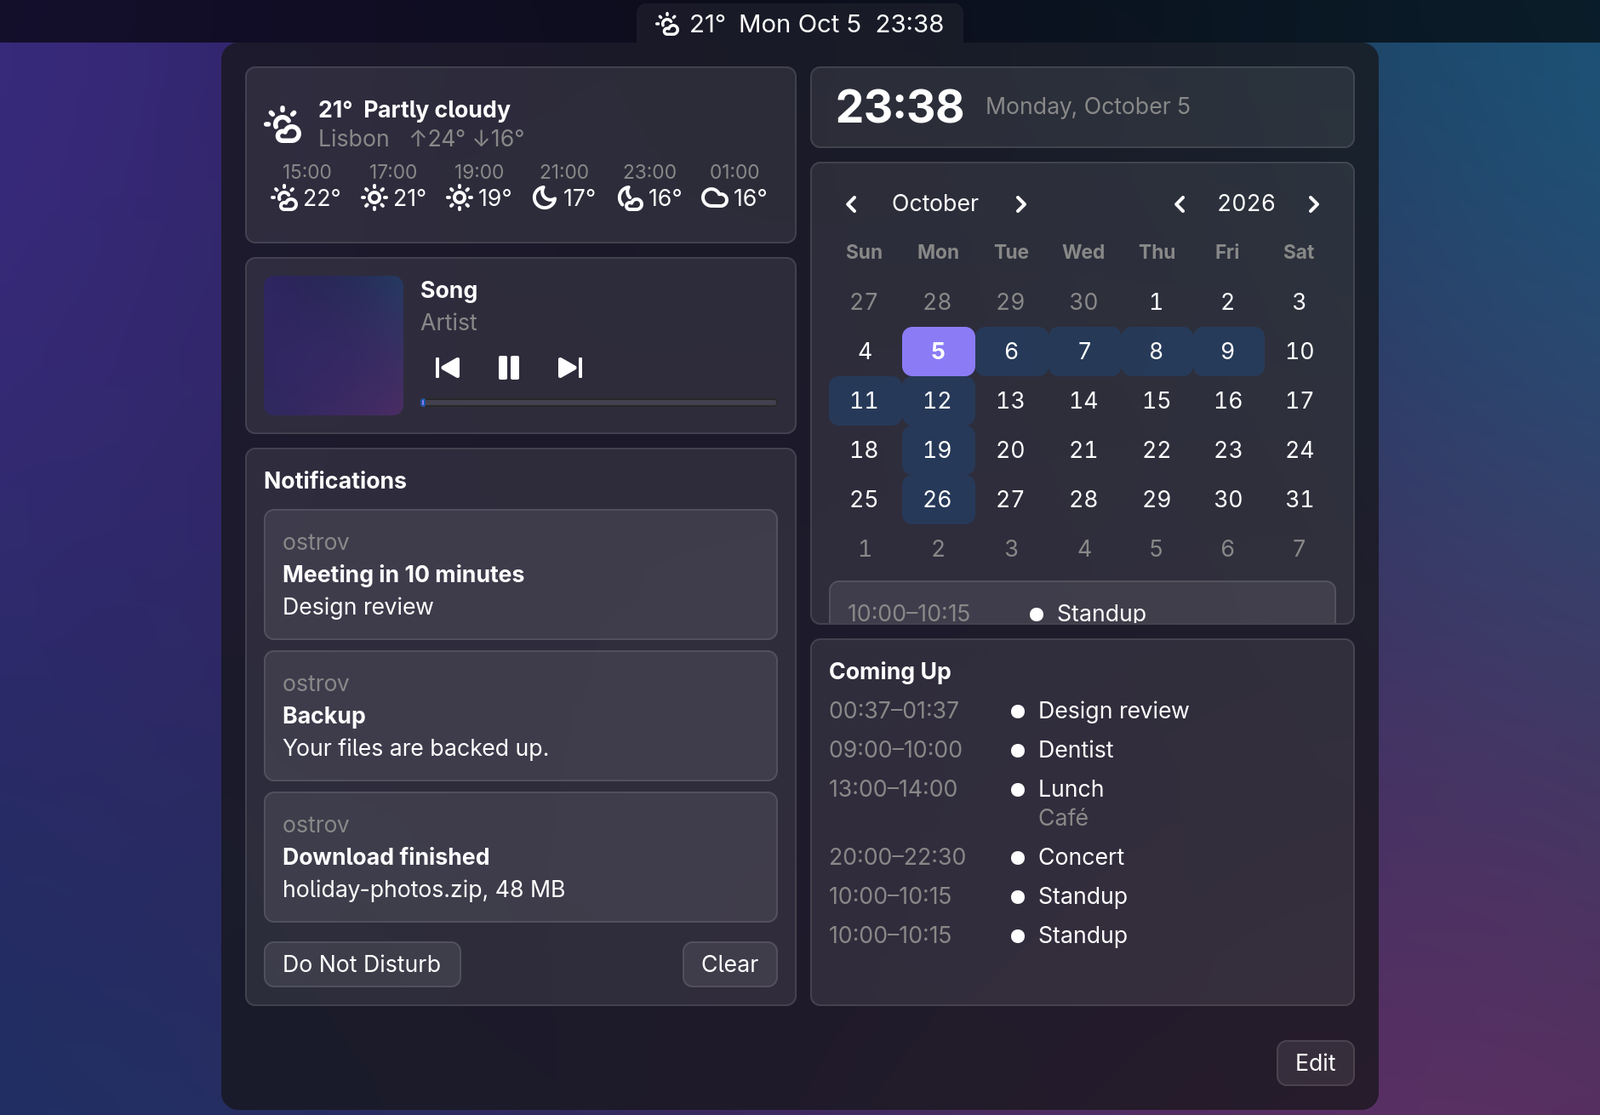
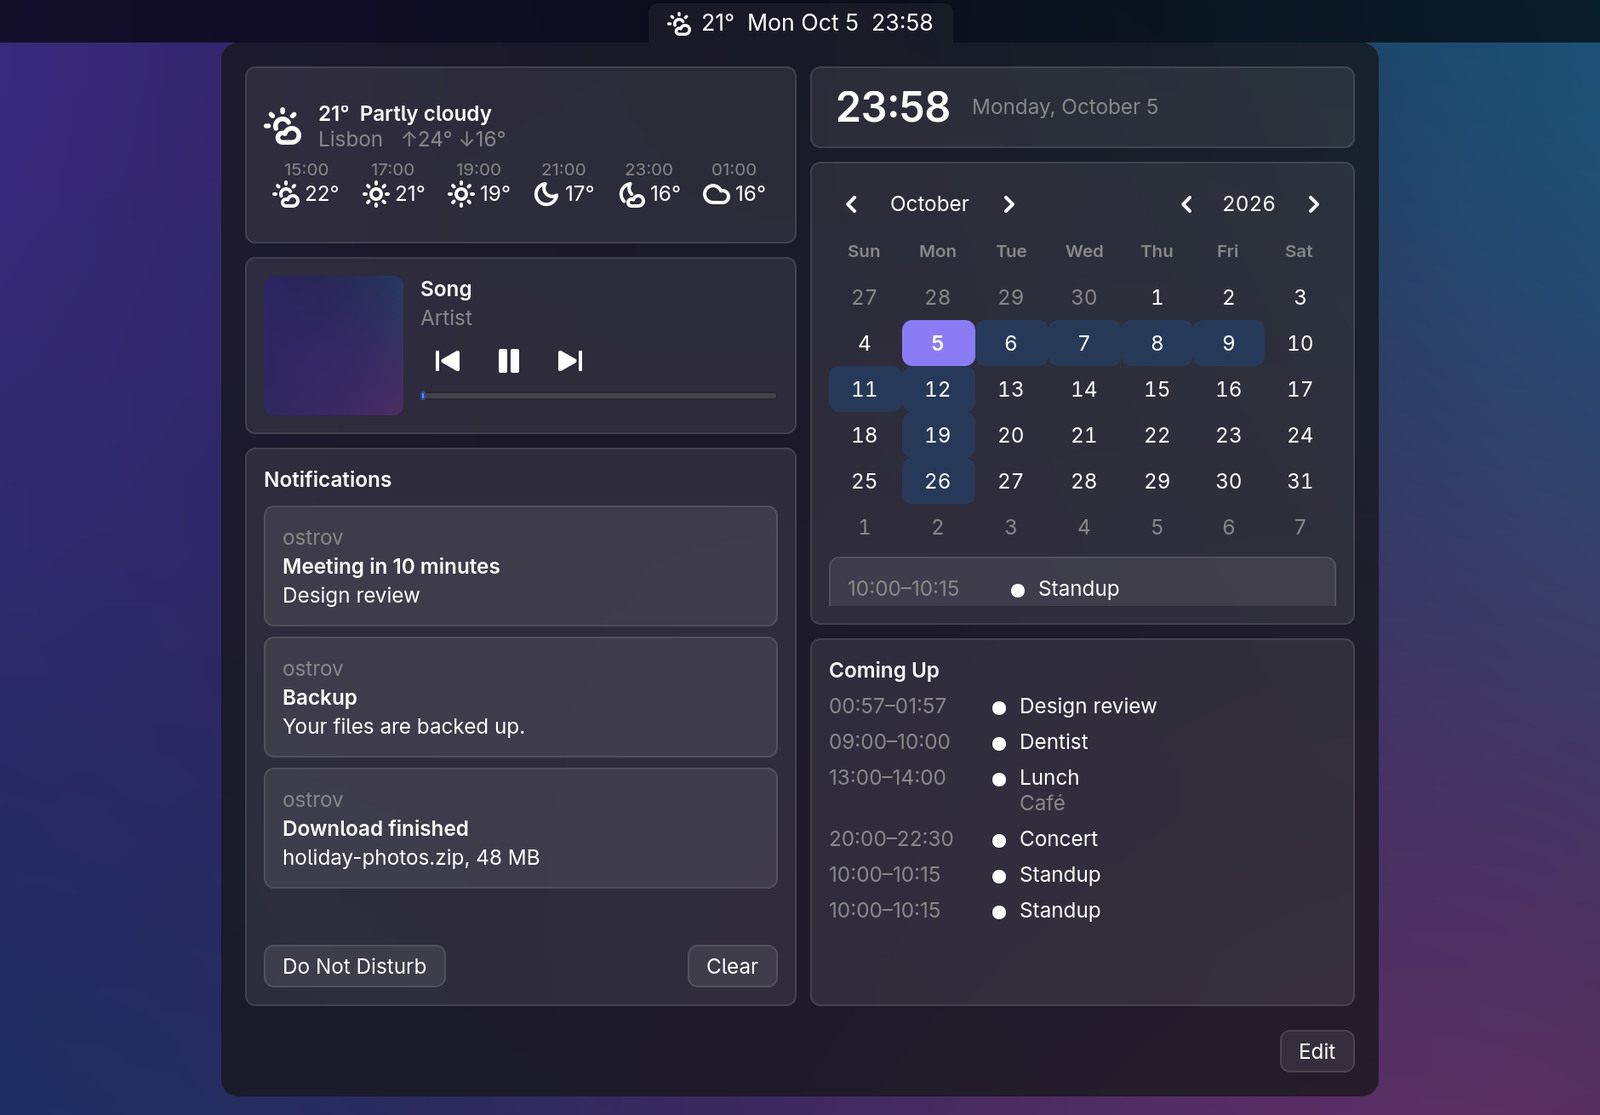
fix(look): text a size smaller and semibold, one gap above the footer, screenshots 8 cells wide without Hyprland's warnings

diff --git a/src/style.rs b/src/style.rs
@@ -59,9 +59,9 @@ separator { background: @rule; margin: 4px; min-height: 1px; min-width: 1px; }
 .osd { padding: 12px 16px; }
 
 /* words */
-.bold { font-weight: bold; }
-.title { font-weight: bold; font-size: 11pt; }
-.date { font-size: 14pt; font-weight: bold; }
+.bold { font-weight: 600; }
+.title { font-weight: 600; font-size: 11pt; }
+.date { font-size: 14pt; font-weight: 600; }
 .dim { color: @dim; }
 .error { color: @urgent; }
 
@@ -95,7 +95,7 @@ button.chip:checked label, button.chip:checked image, button.chip.picked label, 
 button.arrow image { transition: -gtk-icon-transform 100ms; }
 button.item { padding: 0 10px; min-height: 34px; border-radius: 6px; }
 button.connect { background: @accent; padding: 0 10px; border-radius: 6px; min-height: 30px; }
-button.connect label { color: @ink; font-weight: bold; }
+button.connect label { color: @ink; font-weight: 600; }
 /* a message's send: a square on the accent, as tall as the entry beside it */
 button.send { background: @accent; border-radius: 6px; min-width: 32px; min-height: 32px; }
 button.send:hover { background: @accent-pressed; }
@@ -108,8 +108,8 @@ button.chip, togglebutton.chip { background: @raised; border: 1px solid @rule; b
 .toggle.on .toggle-sub { color: alpha(@ink, 0.72); }
 .toggle-main { padding: 0 6px 0 14px; border-radius: 6px; }
 .toggle-main:hover { background: @raised; }
-.toggle-title { font-weight: bold; }
-.toggle-glyph { font-weight: bold; min-width: 16px; }
+.toggle-title { font-weight: 600; }
+.toggle-glyph { font-weight: 600; min-width: 16px; }
 .toggle-sub { color: @dim; font-size: 8.5pt; }
 button.toggle-side { min-width: 40px; border-left: 1px solid @rule; border-radius: 0 6px 6px 0; }
 .toggle.on button.toggle-side { border-left-color: alpha(@ink, 0.22); }
@@ -136,7 +136,7 @@ button.toggle-side { min-width: 40px; border-left: 1px solid @rule; border-radiu
 .gallery-line { padding: 0 10px; min-height: 34px; }
 /* a hover in an open popup, drawn in the bar's window (popup.rs), as GTK's tooltips look */
 .bubble { background: @surface-solid; color: @fg; border: 1px solid @rule; border-radius: 6px; padding: 2px 8px;
-          font-weight: bold; }
+          font-weight: 600; }
 /* the dots on a slider's steps, over its track */
 .slider-dots { color: alpha(@fg, 0.55); }
 .slider-dots.filled { color: alpha(@ink, 0.6); }
@@ -148,13 +148,13 @@ button.tile-remove image { color: @fg; -gtk-icon-size: 12px; }
 .tile.picked > :first-child { box-shadow: 0 0 0 2px @accent; border-radius: 6px; }
 .tile-grip { background: @handle; color: @on-scrim; border-radius: 10px; min-width: 20px; min-height: 20px; margin: -5px; -gtk-icon-size: 12px; }
 .clock { padding: 0 14px; }
-.surface label.clock-time { font-size: 20pt; font-weight: bold; }
+.surface label.clock-time { font-size: 20pt; font-weight: 600; }
 /* the tiles as tall as the density's rows (look.rs), not their own */
 .cc .toggle, .cc button.round { min-height: 0; }
 
 /* the control centre's pages (Appearance, Settings): a header with its back arrow; a form's fields, the title
    over its help, the control beside or under them; the themes' cards, the accents' swatches */
-.page-title { font-weight: bold; font-size: 12pt; }
+.page-title { font-weight: 600; font-size: 12pt; }
 .form-section { margin-top: 10px; }
 .field { padding: 6px 0; }
 .field-help { color: @dim; font-size: 8.5pt; }
@@ -197,10 +197,10 @@ entry:focus-within, passwordentry:focus-within { border-color: @accent; }
 calendar { background: @card; border: 1px solid @rule; border-radius: 6px; padding: 6px; }
 calendar > header { border: none; }
 calendar > header > button { min-width: 28px; min-height: 28px; border-radius: 6px; }
-calendar > grid > label.day-name { color: @dim; font-weight: bold; font-size: 8.5pt; }
+calendar > grid > label.day-name { color: @dim; font-weight: 600; font-size: 8.5pt; }
 calendar > grid > label.day-number { padding: 6px; border-radius: 6px; }
 calendar > grid > label.day-number.other-month { color: @dim; }
-calendar > grid > label.day-number:selected { background: @accent; color: @ink; font-weight: bold; }
+calendar > grid > label.day-number:selected { background: @accent; color: @ink; font-weight: 600; }
 
 /* the tray's menus: a surface of items, a line between groups */
 .tray-menu { padding: 6px; }

diff --git a/src/cc/mod.rs b/src/cc/mod.rs
@@ -924,6 +924,14 @@ impl Panel {
         self.inspect();
     }
 
+    /// The inspector and the scroller it is in (an empty one would leave its gap above the footer).
+    fn show_inspector(&self, on: bool) {
+        self.inspector.set_visible(on);
+        if let Some(s) = self.inspector.ancestor(gtk4::ScrolledWindow::static_type()) {
+            s.set_visible(on);
+        }
+    }
+
     /// The picked tile's inspector: its sizes, when its badge is in the bar, the bar alone, its settings, off.
     fn inspect(self: &Rc<Self>) {
         clear(&self.inspector);
@@ -932,9 +940,9 @@ impl Panel {
         let off = on.is_none();
         let it = on.or_else(|| self.hidden.borrow().iter().find(|i| i.key == key).cloned());
         let (Some(it), Some(m)) = (it, self.reg.iter().find(|m| m.id == key)) else {
-            return self.inspector.set_visible(false);
+            return self.show_inspector(false);
         };
-        self.inspector.set_visible(true);
+        self.show_inspector(true);
         let head = gtk4::Box::new(Orientation::Horizontal, 10);
         let badge = gtk4::Image::from_icon_name(m.icon);
         badge.add_css_class("badge");
@@ -1322,7 +1330,8 @@ pub fn build(host: &Rc<crate::popup::Host>, hub: &Rc<Hub>, tab: &impl IsA<gtk4::
     pages.set_interpolate_size(true);
     col.append(&pages);
 
-    let page = gtk4::Box::new(Orientation::Vertical, 10);
+    // the footer as far from the grid as the grid from the surface's edge (its padding)
+    let page = gtk4::Box::new(Orientation::Vertical, 14);
     let dims = crate::look::density(&crate::config::load().appearance);
     let grid = gtk4::Grid::new();
     grid.add_css_class("cc");
@@ -1356,6 +1365,7 @@ pub fn build(host: &Rc<crate::popup::Host>, hub: &Rc<Hub>, tab: &impl IsA<gtk4::
     fit.set_policy(gtk4::PolicyType::External, gtk4::PolicyType::Never);
     fit.set_propagate_natural_height(true);
     fit.set_child(Some(&inspector));
+    fit.set_visible(false);
     body.append(&fit);
     body.append(&gallery);
 

diff --git a/src/settings/mod.rs b/src/settings/mod.rs
@@ -492,7 +492,7 @@ pub fn appearance() -> Vec<Section> {
             .visible_if("blur", true),
         Field::new("font", "Font", Kind::String).default("").help("A family (Inter, Iosevka…); empty: GTK's own."),
         Field::new("font_size", "Text size", slider(8.0, 16.0, 1.0))
-            .default(11.0)
+            .default(10.0)
             .help("In points; the rest sized from it."),
         Field::new("icon_size", "Icon size", slider(10.0, 32.0, 1.0)).default(16),
     ])]

diff --git a/src/config.rs b/src/config.rs
@@ -185,7 +185,7 @@ impl Default for Appearance {
             blur_size: None,
             blur_passes: None,
             font: String::new(),
-            font_size: 11.0,
+            font_size: 10.0,
             icon_size: 16,
             bar_icon_size: 14,
             bar_height: 25,
